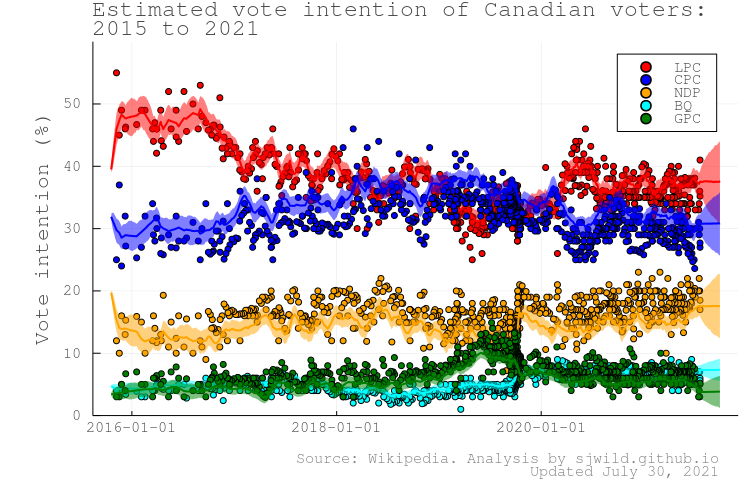
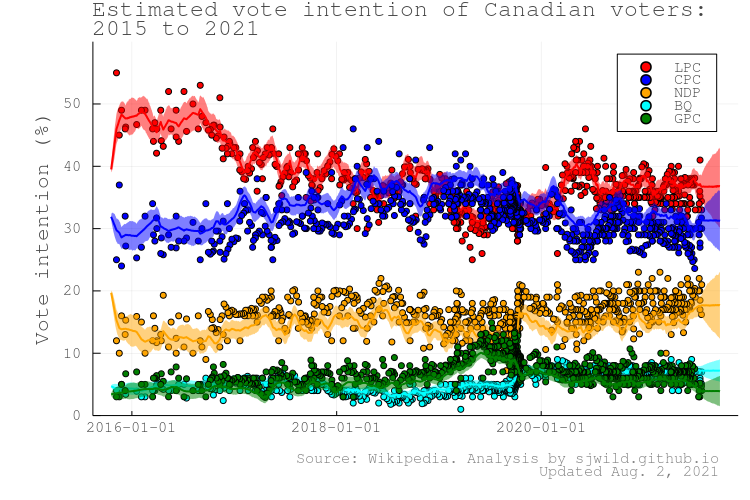
Update Julia model with house effects

diff --git a/README.md b/README.md
@@ -6,7 +6,7 @@ The model assumes that there is an underlying latent voting intention for each o
 
 The model is based on the model suggested by Simon Jackman in his book, _Bayesian Analysis for the Social Sciences_, and updated by [Peter Ellis]( http://freerangestats.info/elections/oz-2019/index.html). My Stan and Turing version differ from their versions in the following ways:  
 
-* I use the non-centered paramterization to improve sampling of the innovation sd (Stan)
+* I use the cholesky decomposition for the non-centered paramterization to improve sampling of the innovation sd (Stan)
 * I anchor the election results, and use the polling error to predict voting intention for the period after the 2019 election 
 * In addition to house effects, I decompose the polling error into four sources:  
   * the margin of error based on simple random sampling 
@@ -14,7 +14,7 @@ The model is based on the model suggested by Simon Jackman in his book, _Bayesia
   * a mode-by-party error
   * pollster-by-party error
 
-The Julia model is run using Turing.jl It is coded using a sligthyl different way of creating a covariance matrix, so that I am able to use Distributions.jl and Turing.jl. I will (hopefully) recode the model when (if?) Distributions.jl gets a native cholesky decomposition of the LKJ distribution.
+The Julia model is run using Turing.jl It is coded using a slightly different way of creating a covariance matrix, so that I am able to use Distributions.jl and Turing.jl. I will (hopefully) recode the model when (if?) Distributions.jl gets a native cholesky decomposition of the LKJ distribution.
 
 The predictions for voting intention (that is, for the period after 2019-10-21, the date of 2019 Canadian election) assume that the polling errors are the same after the election as before it. That may or may not be true. I suspect that polling errors are correlated between periods.
 
@@ -33,7 +33,10 @@ As of July 30, 2021, these are the estimated vote shares based on Canadian polls
 
 ![alt text](https://github.com/sjwild/Canandian_Election_2021/raw/main/can_vote_intention_2015_2021.png "Vote share of Canadian parties from 2015 to 2021.")
 
+## House effects
+House effects vary, but in general firms tended to overestimate NDP and Green Party vote share while underestimating CPC and BQ vote share. 
 
+![alt text](https://github.com/sjwild/Canandian_Election_2021/raw/main/house_effects_pollsters.png "House effects of Canadian polling firms from 2015 to 2021.")
 
 # Future plans
 I plan to eventually produce a second stage of the model to estimate seat distributions. If time permits, I also plan to try produce a third model to estimate riding-by-riding outcomes.
@@ -67,7 +70,7 @@ Mongrain, P., Nadeau, R., & Jérôme, B. (2021). Playing the synthesizer with Ca
 
 Shirani-Mehr, H., Rothschild, D., Goel, S., & Gelman, A. (2018). Disentangling bias and variance in election polls. _Journal of the American Statistical Association_, _113_(522), 607-614.  
 
-Walther, D. (2015). Picking the winner (s): Forecasting elections in multiparty systems. _Electoral Studies_, _40_, 1-13.  
+Walther, D. (2015). Picking the winner(s): Forecasting elections in multiparty systems. _Electoral Studies_, _40_, 1-13.  
 
 
 
